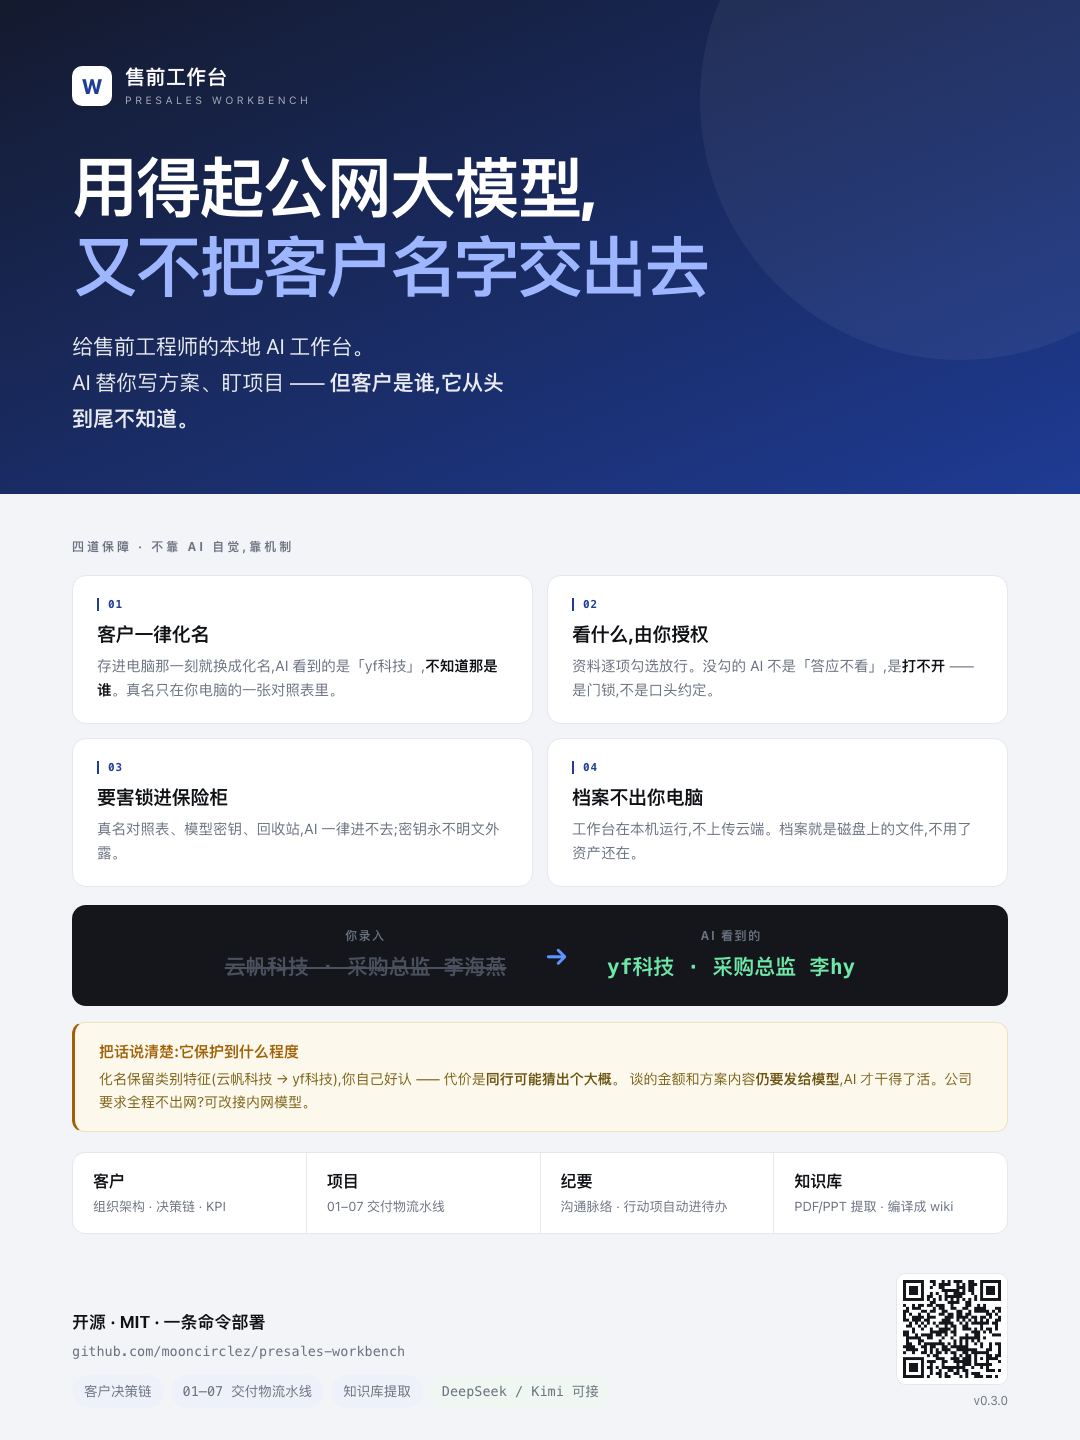
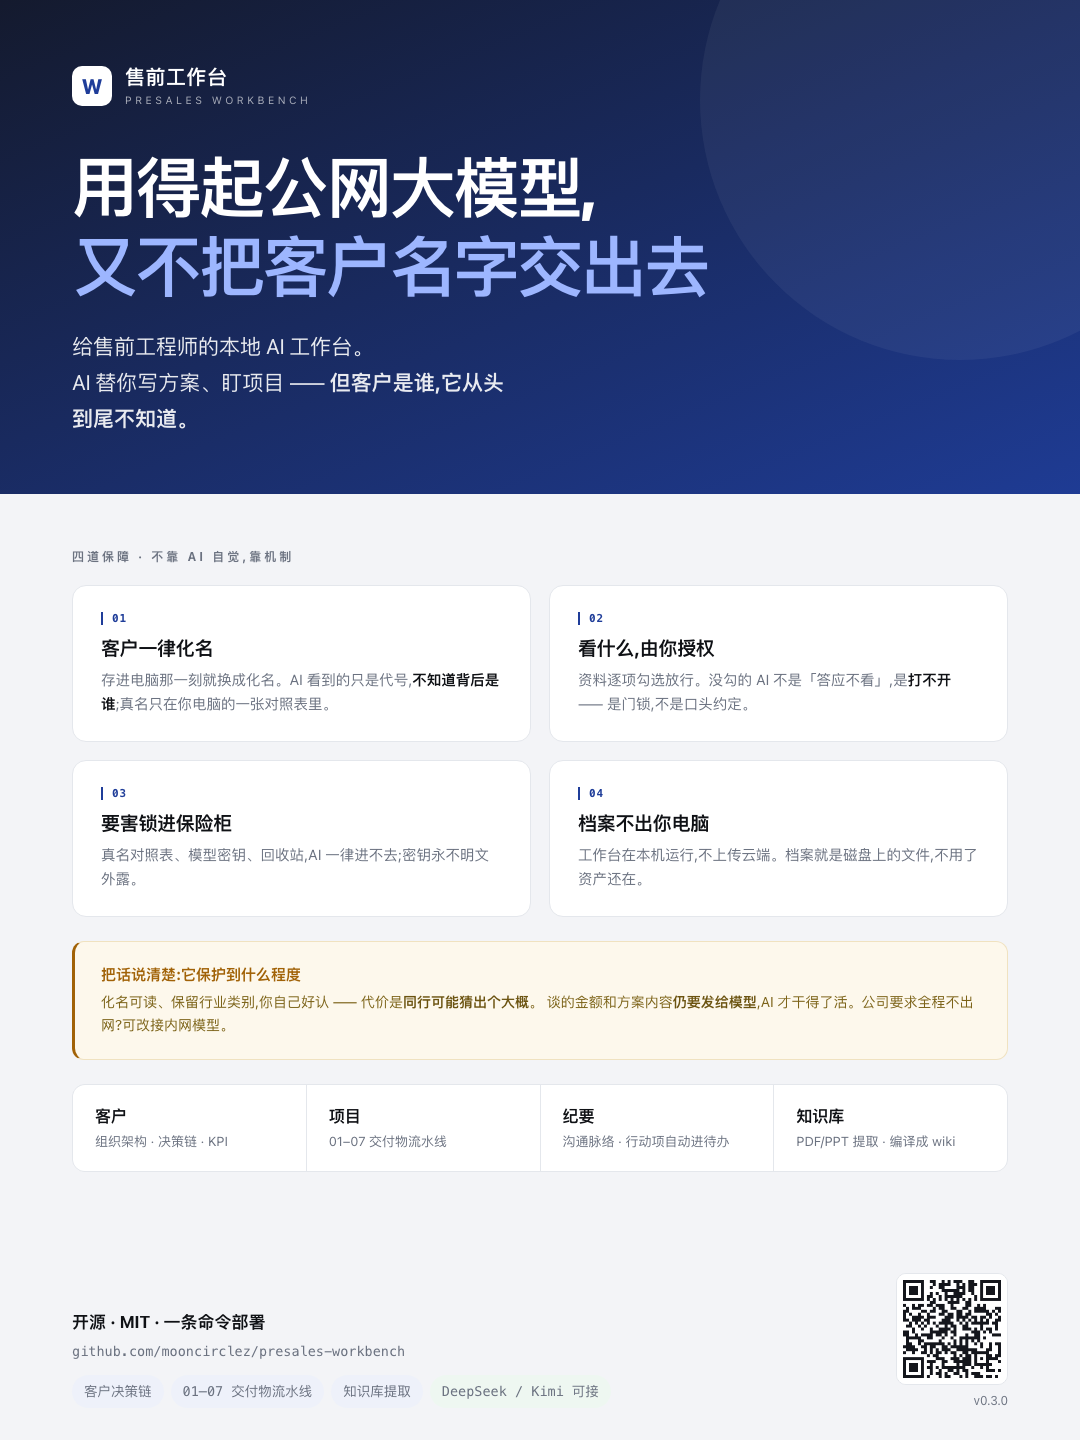
docs: 去掉化名演示条 —— 编造的示例公司人名怎么摆都别扭
用户两轮反馈:「示例银行 · 张三丰」「云帆科技 · 李海燕」都莫名其妙。
根因是演示必须编一个假名,而假名天然出戏。索性整块去掉:

- 页面与海报删除「你录入 → AI 看到」演示条
- 卡片与「老实话」里的具体假名举例一并抽象化:
  「AI 看到的只是代号,不知道背后是谁」「化名可读、保留行业类别」
- 全文不再出现任何编造的公司名与人名;仓库 demo 数据说明除外
- 海报删块后放宽卡片与分区间距补白

Changed region(s): [[0.0611, 0.375, 0.9472, 0.8438], [0.1528, 0.375, 0.275, 0.4062]]

diff --git a/docs/poster.html b/docs/poster.html
@@ -26,12 +26,12 @@ h1 em{font-style:normal;color:#9db6ff}
 .sub b{color:#fff;font-weight:700}
 
 /* 中部:四层 */
-.mid{padding:44px 72px 0}
+.mid{padding:54px 72px 0}
 .eyebrow{font-size:12px;letter-spacing:3px;color:var(--muted);font-weight:700;
   text-transform:uppercase;margin-bottom:20px}
-.layers{display:grid;grid-template-columns:1fr 1fr;gap:14px}
+.layers{display:grid;grid-template-columns:1fr 1fr;gap:18px}
 .ly{background:var(--card);border:1px solid var(--line);border-radius:14px;
-  padding:22px 24px;position:relative}
+  padding:26px 28px;position:relative}
 .ly .n{font:700 11px var(--mono);color:var(--accent);letter-spacing:1px;
   padding-left:9px;border-left:2px solid var(--accent);margin-bottom:10px;display:block}
 .ly>b{display:block;font-size:19px;letter-spacing:-.3px;margin-bottom:7px}
@@ -40,29 +40,17 @@ h1 em{font-style:normal;color:#9db6ff}
 .ly code{font-family:var(--mono);font-size:13px;background:var(--soft);
   color:var(--accent);padding:1px 6px;border-radius:5px}
 
-/* 代号演示 */
-.demo{margin-top:18px;background:#14161c;border-radius:14px;padding:22px 30px;
-  display:flex;align-items:center;justify-content:center;gap:38px}
-.demo .col{flex:none;text-align:center}
-.demo .lb{font-size:12px;letter-spacing:1.6px;color:#6b7280;
-  text-transform:uppercase;margin-bottom:8px;font-weight:700}
-.demo .v{font:600 21px/1.5 var(--mono);color:#e6e8ee}
-.demo .v.hide{color:#4b515e;text-decoration:line-through}
-.demo .v.on{color:#6ee7a8}
-.demo .arw{color:#5c95ff;font-size:26px;flex:none;font-weight:700}
-.demo .tail{font-size:13.5px;color:#8b93a3;margin-top:14px;line-height:1.6}
-
 /* 老实话 */
-.honest{margin-top:16px;background:var(--warnbg);border:1px solid #f0e2c0;
-  border-left:3px solid var(--warn);border-radius:12px;padding:18px 24px}
+.honest{margin-top:24px;background:var(--warnbg);border:1px solid #f0e2c0;
+  border-left:3px solid var(--warn);border-radius:12px;padding:22px 26px}
 .honest>b{font-size:15px;color:var(--warn);display:block;margin-bottom:5px}
 .honest span b{color:#6b5310;font-weight:700}
 .honest span{font-size:14px;line-height:1.65;color:#7c6318;display:block}
 
 /* 能力带 */
-.band{display:grid;grid-template-columns:repeat(4,1fr);gap:1px;margin-top:20px;
+.band{display:grid;grid-template-columns:repeat(4,1fr);gap:1px;margin-top:24px;
   background:var(--line);border:1px solid var(--line);border-radius:13px;overflow:hidden}
-.bi{background:var(--card);padding:17px 20px}
+.bi{background:var(--card);padding:20px 22px}
 .bi b{display:block;font-size:16px;margin-bottom:4px}
 .bi span{display:block;font-size:13px;color:var(--muted);line-height:1.55}
 
@@ -95,7 +83,7 @@ h1 em{font-style:normal;color:#9db6ff}
   <div class="eyebrow">四道保障 · 不靠 AI 自觉,靠机制</div>
   <div class="layers">
     <div class="ly"><span class="n">01</span><b>客户一律化名</b>
-      <span>存进电脑那一刻就换成化名,AI 看到的是「yf科技」,<b>不知道那是谁</b>。真名只在你电脑的一张对照表里。</span></div>
+      <span>存进电脑那一刻就换成化名。AI 看到的只是代号,<b>不知道背后是谁</b>;真名只在你电脑的一张对照表里。</span></div>
     <div class="ly"><span class="n">02</span><b>看什么,由你授权</b>
       <span>资料逐项勾选放行。没勾的 AI 不是「答应不看」,是<b>打不开</b> —— 是门锁,不是口头约定。</span></div>
     <div class="ly"><span class="n">03</span><b>要害锁进保险柜</b>
@@ -104,21 +92,9 @@ h1 em{font-style:normal;color:#9db6ff}
       <span>工作台在本机运行,不上传云端。档案就是磁盘上的文件,不用了资产还在。</span></div>
   </div>
 
-  <div class="demo">
-    <div class="col">
-      <div class="lb">你录入</div>
-      <div class="v hide">云帆科技 · 采购总监 李海燕</div>
-    </div>
-    <div class="arw">→</div>
-    <div class="col">
-      <div class="lb">AI 看到的</div>
-      <div class="v on">yf科技 · 采购总监 李hy</div>
-    </div>
-  </div>
-
   <div class="honest">
     <b>把话说清楚:它保护到什么程度</b>
-    <span>化名保留类别特征(云帆科技 → yf科技),你自己好认 —— 代价是<b>同行可能猜出个大概</b>。
+    <span>化名可读、保留行业类别,你自己好认 —— 代价是<b>同行可能猜出个大概</b>。
       谈的金额和方案内容<b>仍要发给模型</b>,AI 才干得了活。公司要求全程不出网?可改接内网模型。</span>
   </div>
 

diff --git a/docs/index.html b/docs/index.html
@@ -123,16 +123,6 @@ h1 em{font-style:normal;color:var(--accent)}
 .stat b small{font-size:14px;font-weight:600;letter-spacing:0;margin-left:2px}
 .stat span{display:block;font-size:12.5px;color:var(--muted);margin-top:5px}
 
-/* 化名演示条 */
-.maskdemo{margin:26px 0 0;background:var(--term-bg);border-radius:12px;
-  padding:22px 30px;display:flex;align-items:center;justify-content:center;
-  gap:36px;flex-wrap:wrap}
-.maskdemo .lb{font-size:11px;letter-spacing:1.8px;color:#6b7280;
-  text-transform:uppercase;margin-bottom:6px;font-weight:700;text-align:center}
-.maskdemo .v{font:600 18px/1.5 var(--mono);color:#e6e8ee;text-align:center}
-.maskdemo .v.hide{color:#4b515e;text-decoration:line-through}
-.maskdemo .v.on{color:#6ee7a8}
-.maskdemo .arw{color:#5c95ff;font-size:22px;font-weight:700}
 /* 折叠的技术细节 */
 details.tech{margin-top:26px;border:1px solid var(--line);border-radius:12px;
   background:var(--card);overflow:hidden}
@@ -356,7 +346,7 @@ footer .r{text-align:right}
 
     <div class="limits">
       <div class="limit"><b>① 客户一律化名</b><span>档案存进电脑那一刻,客户名和联系人就换成了化名。
-        AI 看到的是「yf科技」,不知道那是谁 —— 真名只存在你机器上的一张对照表里,别处没有。</span></div>
+        AI 看到的只是代号,<b>不知道背后是谁</b> —— 真名只存在你机器上的一张对照表里,别处没有。</span></div>
       <div class="limit"><b>② 看什么,由你授权</b><span>资料按目录逐项勾选放行。
         没勾中的,AI 不是「答应不看」,是<b>打不开</b> —— 这是门锁,不是口头约定。</span></div>
       <div class="limit"><b>③ 要害锁进保险柜</b><span>真名对照表、各家模型的密钥、回收站 ——
@@ -365,15 +355,9 @@ footer .r{text-align:right}
         档案就是磁盘上的普通文件,哪天不用工作台了,资产原样还在。</span></div>
     </div>
 
-    <div class="maskdemo">
-      <div><div class="lb">你录入</div><div class="v hide">云帆科技 · 采购总监 李海燕</div></div>
-      <div class="arw">→</div>
-      <div><div class="lb">AI 看到的</div><div class="v on">yf科技 · 采购总监 李hy</div></div>
-    </div>
-
     <div class="note">
       <b>把话说清楚:它保护到什么程度</b>
-      <p>化名保留了类别特征(云帆科技 → yf科技),你自己好认 ——
+      <p>化名可读、保留行业类别,你自己翻档案一看就认得 ——
          代价是<b>同行有可能猜出个大概</b>。另外,谈的<b>金额和方案内容仍要发给模型</b>,
          否则 AI 没法替你干活。如果公司要求「任何内容都不出网」,
          工作台也支持改接你们内网的模型,其余一切照常用。</p>
@@ -733,7 +717,7 @@ PORT=8919 ./setup.sh    <span class="c"># 换端口</span></pre>
       <div class="limit"><b>无自动化测试</b><span>改动靠手工验证。</span></div>
       <div class="limit"><b>数据量假设中小</b><span>全文搜索是暴力遍历,客户 / 项目上百后会变慢。</span></div>
       <div class="limit"><b>成本可见但不设限</b><span>每轮显示耗时、token 与花费,但没有额度上限或超额拦截。</span></div>
-      <div class="limit"><b>代号是可读假名</b><span>云帆科技 → yf科技,保留类别特征便于自己阅读 ——
+      <div class="limit"><b>代号是可读假名</b><span>化名可读、保留行业类别,便于自己翻档案 ——
         代价是在特定行业内<b>有可能被反推</b>。要更强保护得换不可读编号。</span></div>
       <div class="limit"><b>脱敏范围有边界</b><span>只覆盖客户名、客户方联系人与地址。
         <b>金额、方案内容、技术细节不脱敏</b>,仍会随指令发给模型。</span></div>
